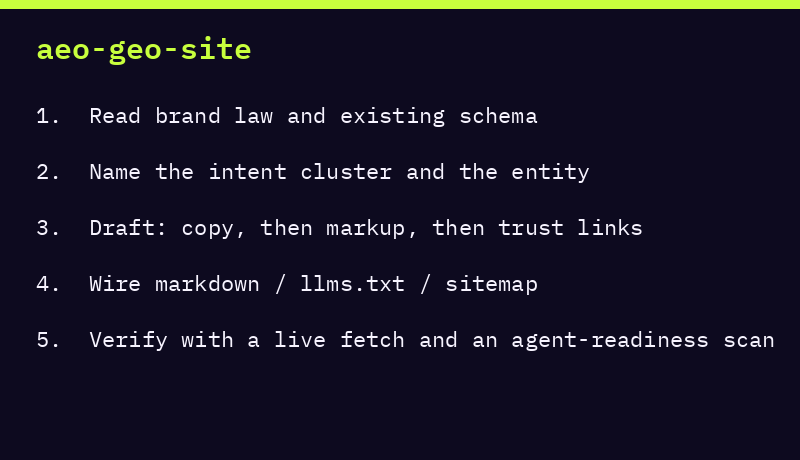
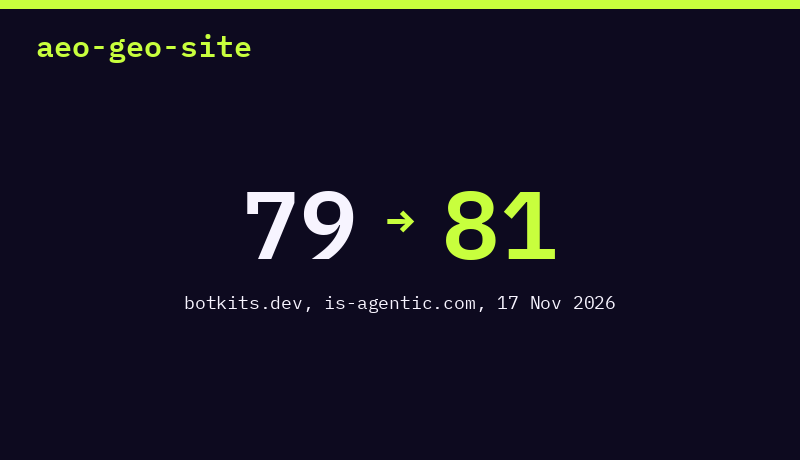
Top 3: Marketer one-liners and result visuals
Replace the placeholder Top 3 lines with Marketer's copy, and redraw
the cards as a 16:9 to 9:16 crop, a mock article header, and the
labeled botkits.dev is-agentic score from 17 Nov 2026.

diff --git a/README.md b/README.md
@@ -33,19 +33,19 @@ Kits and install guides: [botkits.dev](https://botkits.dev)
 <table>
 <tr>
 <td valign="top" width="33%">
-<p align="center"><a href="skills/video/shorts-reframe/"><img src="assets/top3-shorts-reframe.png" alt="shorts-reframe: center-crop 16:9 to 9:16, scale to 1080x1920, then check size and duration"></a></p>
+<p align="center"><a href="skills/video/shorts-reframe/"><img src="assets/top3-shorts-reframe.png" alt="shorts-reframe: 16:9 frame and the 9:16 center-crop result at 1080×1920"></a></p>
 <strong><a href="skills/video/shorts-reframe/">shorts-reframe</a></strong><br>
-Turn a 16:9 video into 9:16 with a fixed center crop, scale to 1080x1920, keep the audio, and check duration and resolution.
+Turn a 16:9 video into a 1080×1920 Short. Center crop, audio kept, length and size checked.
 </td>
 <td valign="top" width="33%">
-<p align="center"><a href="skills/writing/x-article/"><img src="assets/top3-x-article.png" alt="x-article steps: outline, draft, source-check, lint, promo post, hand over. Do not post."></a></p>
+<p align="center"><a href="skills/writing/x-article/"><img src="assets/top3-x-article.png" alt="x-article: mock article header with a hook line, a section, and an image slot"></a></p>
 <strong><a href="skills/writing/x-article/">x-article</a></strong><br>
-Write or rewrite an X Article (long-form on x.com/i/article), with images between sections, a first-line hook, and no invented numbers.
+Turn rough notes into an X Article, with a first-line hook, images between sections and no invented numbers.
 </td>
 <td valign="top" width="33%">
-<p align="center"><a href="skills/seo/aeo-geo-site/"><img src="assets/top3-aeo-geo-site.png" alt="aeo-geo-site steps: schema, intent, draft, llms.txt, then a live fetch and an agent-readiness scan"></a></p>
+<p align="center"><a href="skills/seo/aeo-geo-site/"><img src="assets/top3-aeo-geo-site.png" alt="aeo-geo-site: botkits.dev is-agentic score, 79 to 81, is-agentic.com, 17 Nov 2026"></a></p>
 <strong><a href="skills/seo/aeo-geo-site/">aeo-geo-site</a></strong><br>
-Build or update a website for SEO plus AEO/GEO (AI assistants, ChatGPT, Copilot, Gemini) so pages are machine-readable, intent-clear, and citable.
+Make your site easy for ChatGPT, Gemini and Copilot to read, understand and cite.
 </td>
 </tr>
 </table>
